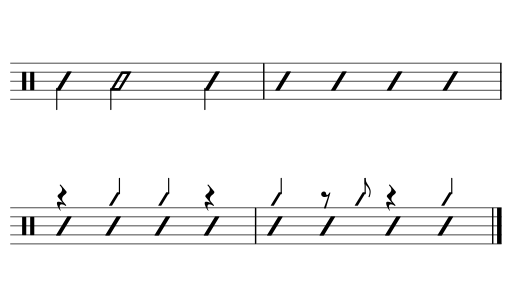
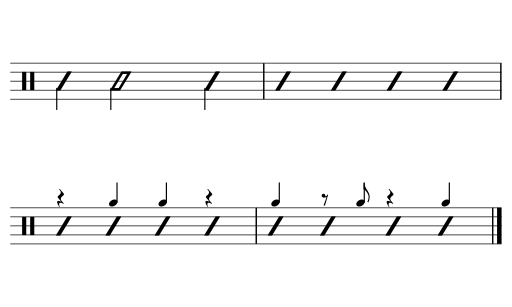
fix #40291: voice 3/3 rests in rhythmic slash notation
Former-commit-id: 117ab2cb65143c1c47e7a2f2c12701e96493b575

diff --git a/libmscore/cmd.cpp b/libmscore/cmd.cpp
@@ -2658,18 +2658,23 @@ void Score::cmdSlashRhythm()
       QList<Chord*> chords;
       // loop through all notes in selection
       foreach (Element* e, selection().elements()) {
-            if (e->type() != Element::Type::NOTE)
+            if (e->voice() >= 2 && e->type() == Element::Type::REST) {
+                  Rest* r = static_cast<Rest*>(e);
+                  r->setAccent(!r->accent());
                   continue;
-            Note* n = static_cast<Note*>(e);
-            if (n->noteType() != NoteType::NORMAL)
-                  continue;
-            Chord* c = n->chord();
-            // check for duplicates (chords with multiple notes)
-            if (chords.contains(c))
-                  continue;
-            chords.append(c);
-            // toggle slash setting
-            c->setSlash(!c->slash(), false);
+                  }
+            else if (e->type() == Element::Type::NOTE) {
+                  Note* n = static_cast<Note*>(e);
+                  if (n->noteType() != NoteType::NORMAL)
+                        continue;
+                  Chord* c = n->chord();
+                  // check for duplicates (chords with multiple notes)
+                  if (chords.contains(c))
+                        continue;
+                  chords.append(c);
+                  // toggle slash setting
+                  c->setSlash(!c->slash(), false);
+                  }
             }
       setLayoutAll(true);
       }

diff --git a/libmscore/rest.cpp b/libmscore/rest.cpp
@@ -643,6 +643,35 @@ qreal Rest::stemPosX() const
       }
 
 //---------------------------------------------------------
+//   accent
+//---------------------------------------------------------
+
+bool Rest::accent()
+      {
+      return (voice() >= 2 && small());
+      }
+
+//---------------------------------------------------------
+//   setAccent
+//---------------------------------------------------------
+
+void Rest::setAccent(bool flag)
+      {
+      undoChangeProperty(P_ID::SMALL, flag);
+      if (voice() % 2 == 0) {
+            if (flag) {
+                  qreal yOffset = -(bbox().bottom());
+                  if (durationType() >= TDuration::DurationType::V_HALF)
+                        yOffset -= staff()->spatium() * 0.5;
+                  undoChangeProperty(P_ID::USER_OFF, QPointF(0.0, yOffset));
+                  }
+            else {
+                  undoChangeProperty(P_ID::USER_OFF, QPointF());
+                  }
+            }
+      }
+
+//---------------------------------------------------------
 //   accessibleInfo
 //---------------------------------------------------------
 

diff --git a/libmscore/rest.h b/libmscore/rest.h
@@ -77,6 +77,8 @@ class Rest : public ChordRest {
       SymId sym() const        { return _sym;    }
       int computeLineOffset();
       bool isFullMeasureRest() const { return durationType() == TDuration::DurationType::V_MEASURE; }
+      bool accent();
+      void setAccent(bool flag);
 
       virtual int upLine() const;
       virtual int downLine() const;
